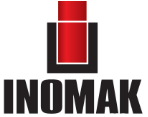
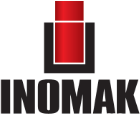
Update SEO

diff --git a/index.html b/index.html
@@ -431,55 +431,65 @@
 <!-- Logo Slider -->
 
 <style>
- body {
-	align-items: center;
-	justify-content: center;
-}
-
-
-@keyframes scroll {
-	0% { transform: translateX(0); }
-	100% { transform: translateX(calc(-250px * 15))}
-}
-
+/* Logo Slider */
 .logo-slider {
-	height: 100px;
-	margin: auto;
-	overflow:hidden;
-	position: relative;
-	width: auto;
-	
-	.slide-track {
-    gap: 50px;
-		animation: scroll 20s linear infinite;
-		display: flex;
-		width: calc(250px * 30);
-	}
-	.slide {
-		height: 60px;
-		width: 200px;
-	}
-} 
+  height: 100px;
+  margin: auto;
+  overflow: hidden;
+  position: relative;
+  width: 100%; /* πάντα να πιάνει όλο το πλάτος */
+}
 
+.logo-slider .slide-track {
+  width: calc(250.5px * 30);
+  display: flex;
+  align-items: center;
+  gap: 50px;
+  animation: scroll 15s linear infinite;
+}
+
+.logo-slider .slide {  
+  height: 60px;
+  width: 200px;
+  display: flex;
+  align-items: center;
+  justify-content: center;
+
+}
+
+.logo-slider .slide img {
+  max-width: 100%;
+  max-height: 100%;
+  object-fit: contain;
+}
+
+/* Responsive για μικρές οθόνες */
 @media (max-width: 600px) {
   .logo-slider {
-    height: 100px; /* πιο μικρό ύψος */
+    height: 80px; /* πιο λογικό ύψος */
   }
 
   .logo-slider .slide {
-    width: 170px;   /* πιο μικρό πλάτος λογοτύπων */
-    height: 70px;   /* πιο μικρό ύψος */
+    width: 120px; /* μικρότερο πλάτος */
+    height: 50px; /* μικρότερο ύψος */
   }
 
   .logo-slider .slide img {
-    width: 80px;
+    width: 100px;
     height: auto;
-  } 
+  }
 
   .logo-slider .slide-track {
-    gap: 20px; /* μικρότερο κενό ανάμεσα στα λογότυπα */
-    animation: scroll 25s linear infinite; /* πιο αργή κίνηση σε μικρή οθόνη */
+    width: calc(150px * 30);
+    gap: 30px; 
+    animation: scroll 20s linear infinite; /* πιο αργή κίνηση */
   }
+}
+
+/* Animation */
+@keyframes scroll {
+  0% { transform: translateX(0); }
+  100% { transform: translateX(-50%); } /* πιο ευέλικτο για responsive */
 }
 
 </style>
@@ -495,7 +505,7 @@
     <div class="slide"><img src="assets/blue_seal.png" height="60" width="200" alt="Blue Seal"></div>
     <div class="slide"><img src="assets/casta.png" height="60" width="200" alt="Casta"></div>
     <div class="slide"><img src="assets/fimar.png" height="60" width="200" alt="Fimar"></div>
-    <div class="slide"><img src="assets/inomak.png" height="100" width="200" style="padding-bottom: 2vw;" alt="Inomak"></div>
+    <div class="slide"><img src="assets/inomak.png" height="60" width="200" alt="Inomak"></div>
     <div class="slide"><img src="assets/jtc.png" height="60" width="200" alt="JTC"></div>
     <div class="slide"><img src="assets/kopa.jpg" height="60" width="200" alt="Kopa"></div>
     <div class="slide"><img src="assets/pasquini.png" height="60" width="200" alt="Pasquini"></div>
@@ -512,7 +522,7 @@
     <div class="slide"><img src="assets/blue_seal.png" height="60" width="200" alt="Blue Seal"></div>
     <div class="slide"><img src="assets/casta.png" height="60" width="200" alt="Casta"></div>
     <div class="slide"><img src="assets/fimar.png" height="60" width="200" alt="Fimar"></div>
-    <div class="slide"><img src="assets/inomak.png" height="100" width="200" alt="Inomak"></div>
+    <div class="slide"><img src="assets/inomak.png" height="60" width="200" alt="Inomak"></div>
     <div class="slide"><img src="assets/jtc.png" height="60" width="200" alt="JTC"></div>
     <div class="slide"><img src="assets/kopa.jpg" height="60" width="200" alt="Kopa"></div>
     <div class="slide"><img src="assets/pasquini.png" height="60" width="200" alt="Pasquini"></div>
